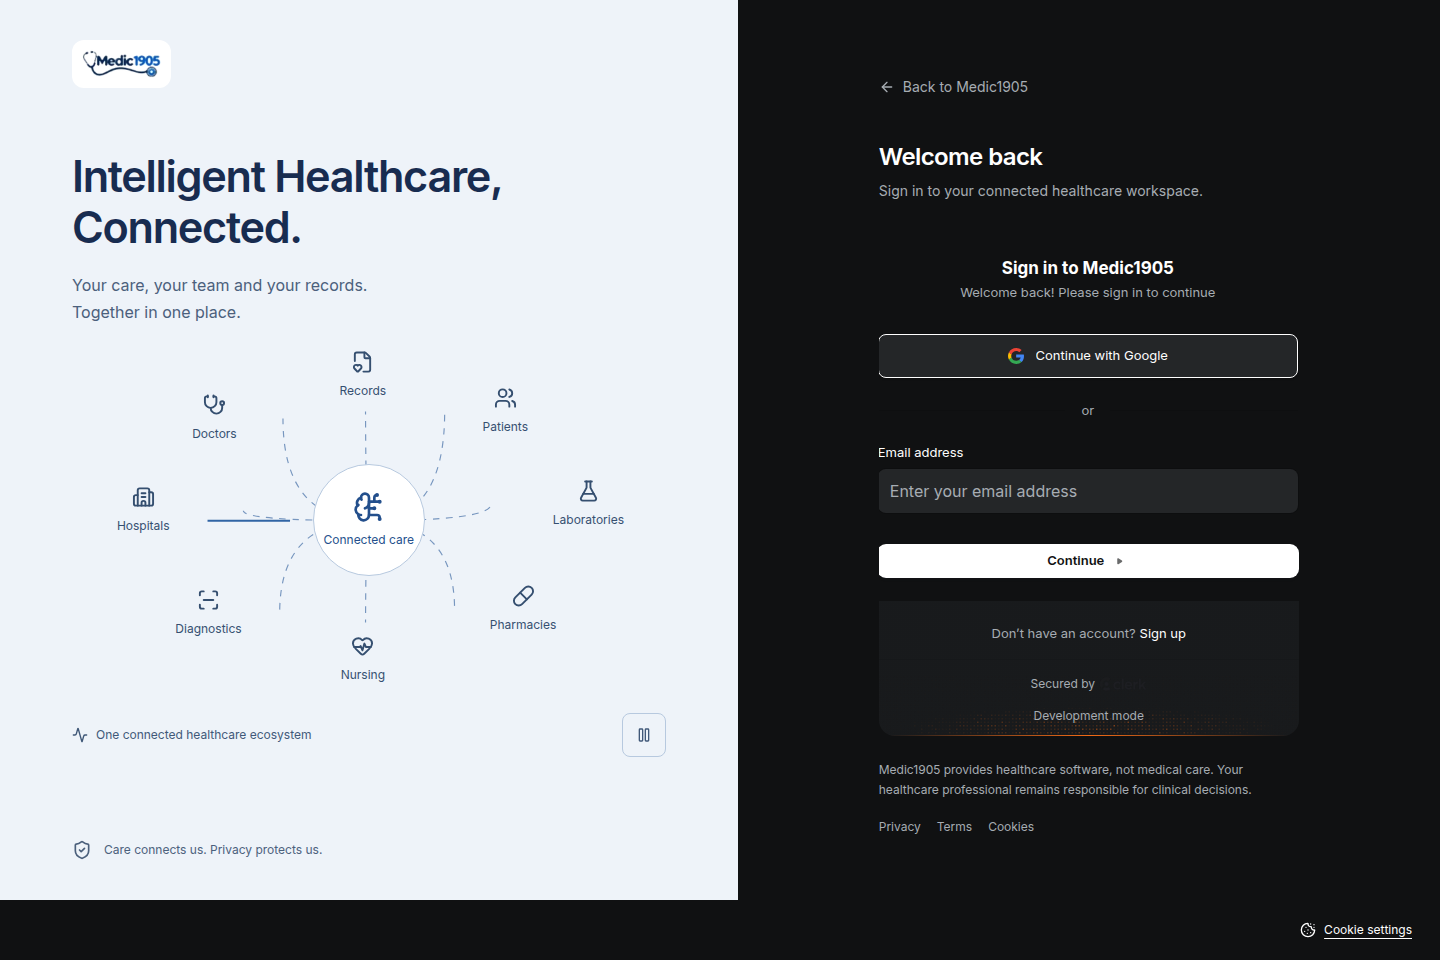
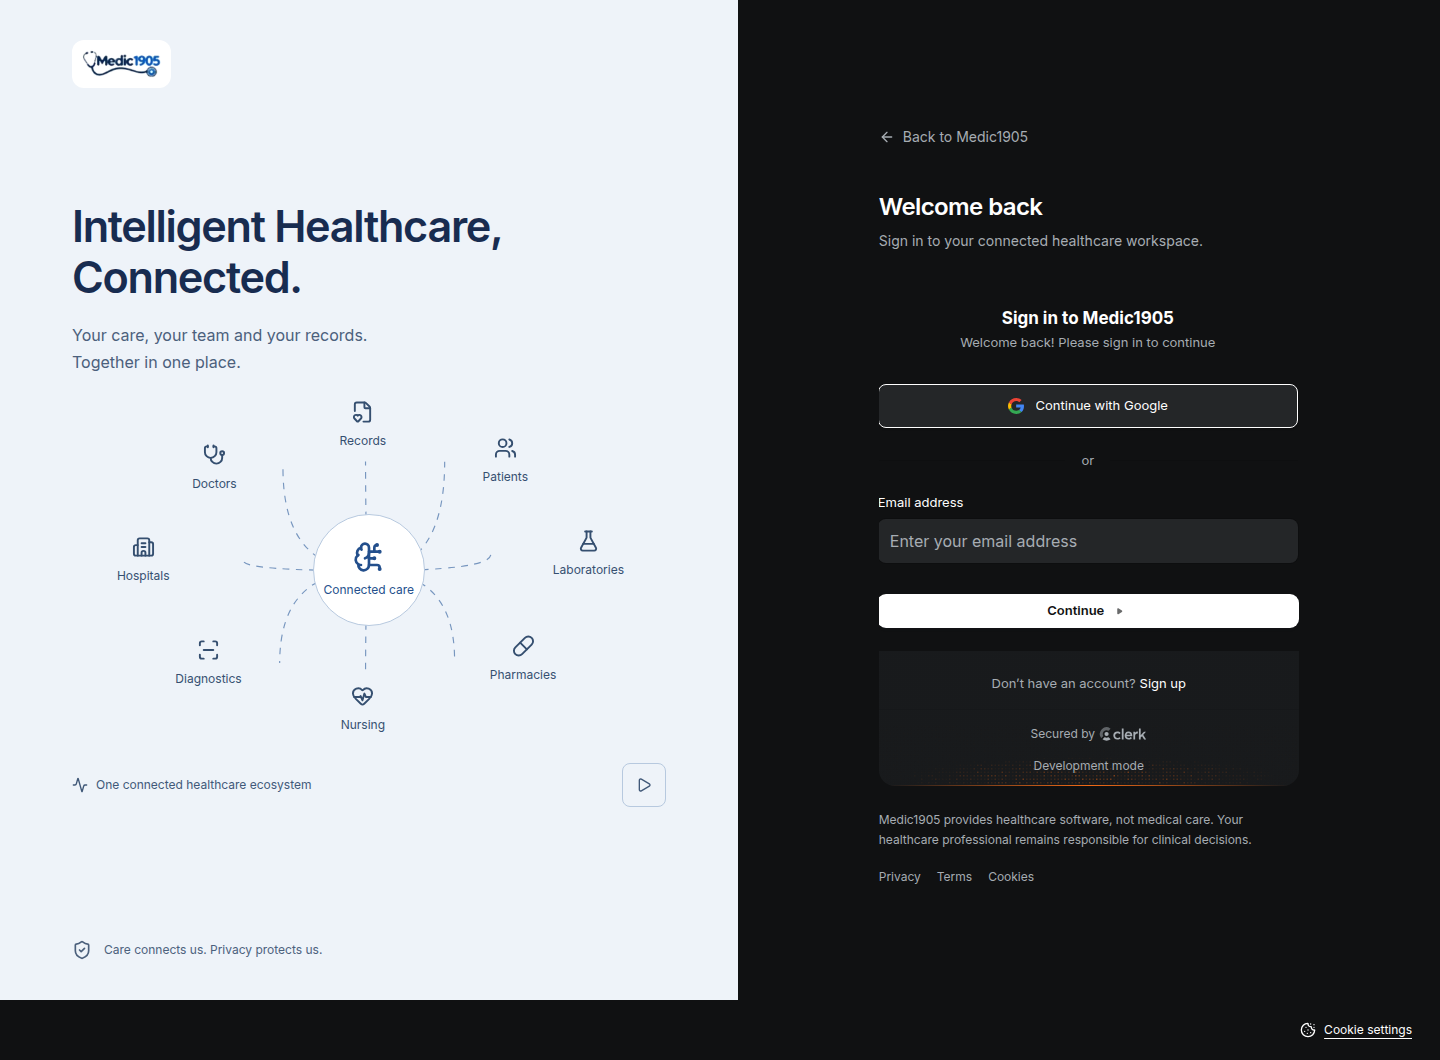
fix: improve auth branding contrast and static motion fallback

diff --git a/src/app/experience.css b/src/app/experience.css
@@ -3,6 +3,7 @@
 .auth-story { display: none; }
 .auth-form-region { min-width: 0; display: flex; align-items: center; justify-content: center; padding: 24px 20px 40px; }
 .auth-form-wrap { width: 100%; max-width: 420px; min-width: 0; }
+.auth-form-wrap a[aria-label="Clerk logo"], .auth-form-wrap a[aria-label="Clerk logo"] svg { color: var(--muted-foreground) !important; }
 .registration-flow input:not([type="checkbox"]):not([type="radio"]):not([type="file"]),
 .registration-flow select, .registration-flow [data-slot="select-trigger"] { min-height: 44px; max-width: 100%; font-size: 16px; }
 .auth-mobile-signal { width: 100%; height: 24px; margin-block: 0 20px; }
@@ -31,6 +32,7 @@
 .health-node svg { width: 23px; height: 23px; }
 .health-motion-button { width: 44px; height: 44px; display: grid; place-items: center; border: 1px solid #b7c9df; border-radius: 8px; }
 .health-network[data-paused="true"] * { animation-play-state: paused; }
+.health-network[data-paused="true"] .health-pulse { opacity: 0; }
 @keyframes health-flow { to { stroke-dashoffset: -205; } }
 .policy-layout { max-width: 1100px; margin: 0 auto; padding: 32px 20px 64px; }
 .policy-reader { display: grid; gap: 40px; margin-top: 32px; }
@@ -59,6 +61,7 @@
   .experience-settings { padding-bottom: 88px; }
 }
 @media (prefers-reduced-motion: reduce) {
+  .health-pulse { opacity: 0; }
   .health-network *, .auth-mobile-signal path, .policy-layout *, .tour-panel, .cookie-panel { animation: none !important; transition: none !important; scroll-behavior: auto !important; }
 }
 :focus-visible { outline: 2px solid #7298d0; outline-offset: 3px; }
